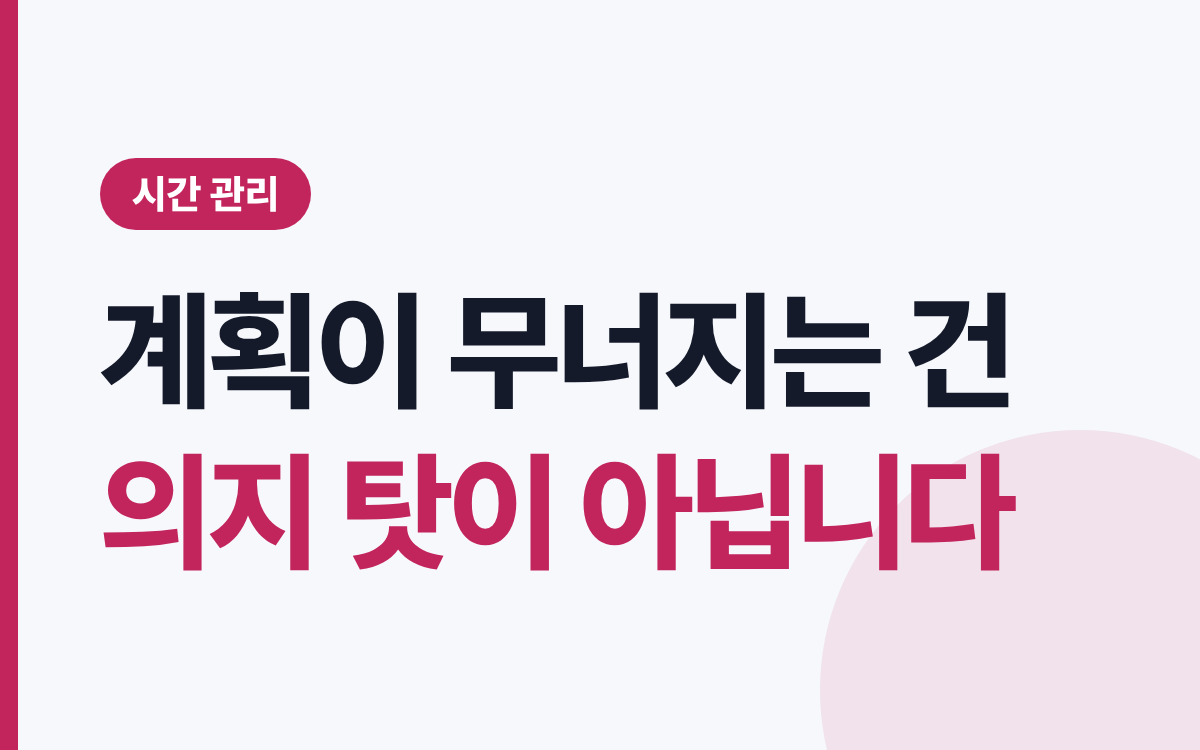
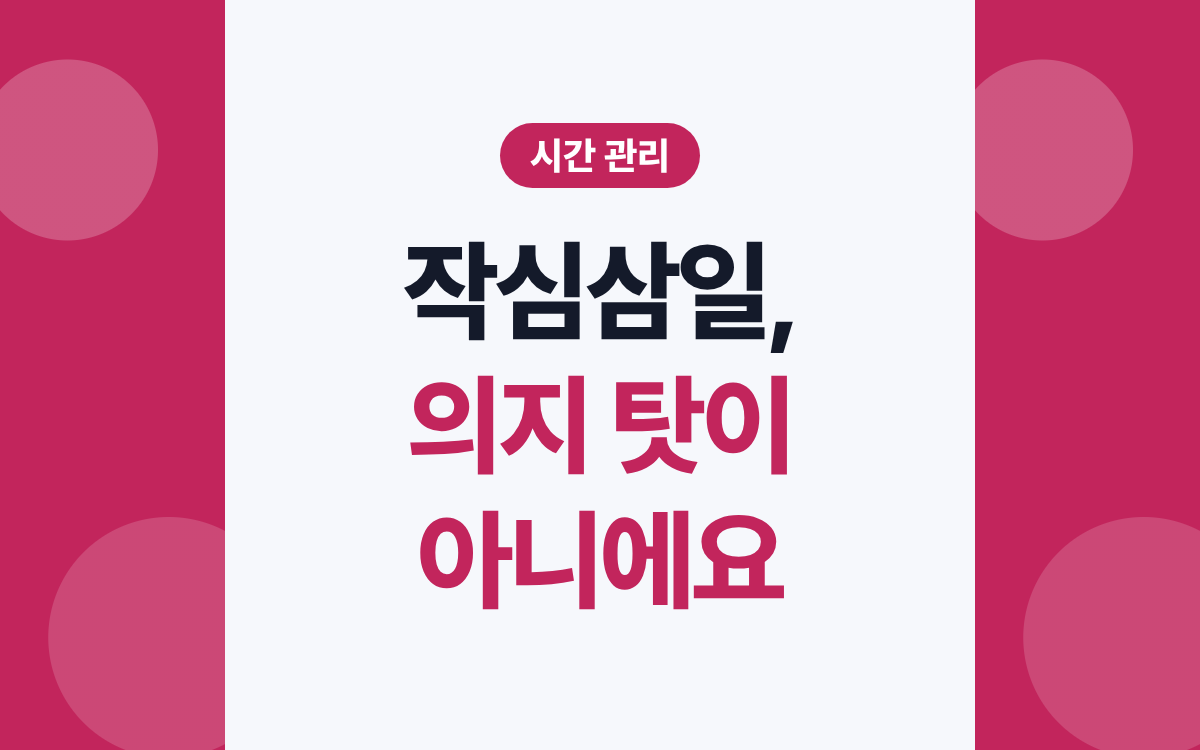
썸네일: 검색 결과의 정사각형 자르기에도 글자가 잘리지 않도록 가운데 안전 영역에 배치
Claude-Session: https://claude.ai/code/session_01Tbmytbb12XdwMjEJY1bxqA

diff --git a/blog/tistory/README.md b/blog/tistory/README.md
@@ -38,7 +38,8 @@
 
 **대표 이미지(썸네일)**
 `thumbnails/` 폴더에 원고 번호와 같은 이름의 PNG(1200×750, 16:10 가로형)가 있습니다. 글쓰기 화면에서 이미지를 본문에 넣고 '대표 이미지'로 지정하세요.
-티스토리 목록 카드(약 1.6:1)에 맞춘 비율이라 거의 잘리지 않습니다. 목록에서는 이미지가 작게 보이므로 주제 태그와 후킹 문구만 크게 넣었습니다(글 제목은 카드 아래에 따로 나옴).
+대표 이미지는 화면마다 다르게 잘립니다(티스토리 목록 카드 약 1.6:1, 다음·네이버 검색 결과는 가운데 정사각형, 카카오톡 링크 미리보기 1.91:1).
+그래서 글자는 모두 가운데 정사각형 안에 가운데 정렬로 넣고 양옆에는 잘려도 되는 색 띠만 두었습니다. 주제 태그와 후킹 문구(한 줄 7~8자, 세 줄)만 넣었고, 글 제목은 목록·검색 결과에 따로 나옵니다.
 문구를 고치려면 `thumbnails/make-thumbnails.mjs`의 `POSTS`의 `hook`(두 줄, `**굵게**`는 강조색)을 고친 뒤 `node blog/tistory/thumbnails/make-thumbnails.mjs`를 실행하세요
 (번호를 붙이면 그 글만: `... make-thumbnails.mjs 05`).
 
